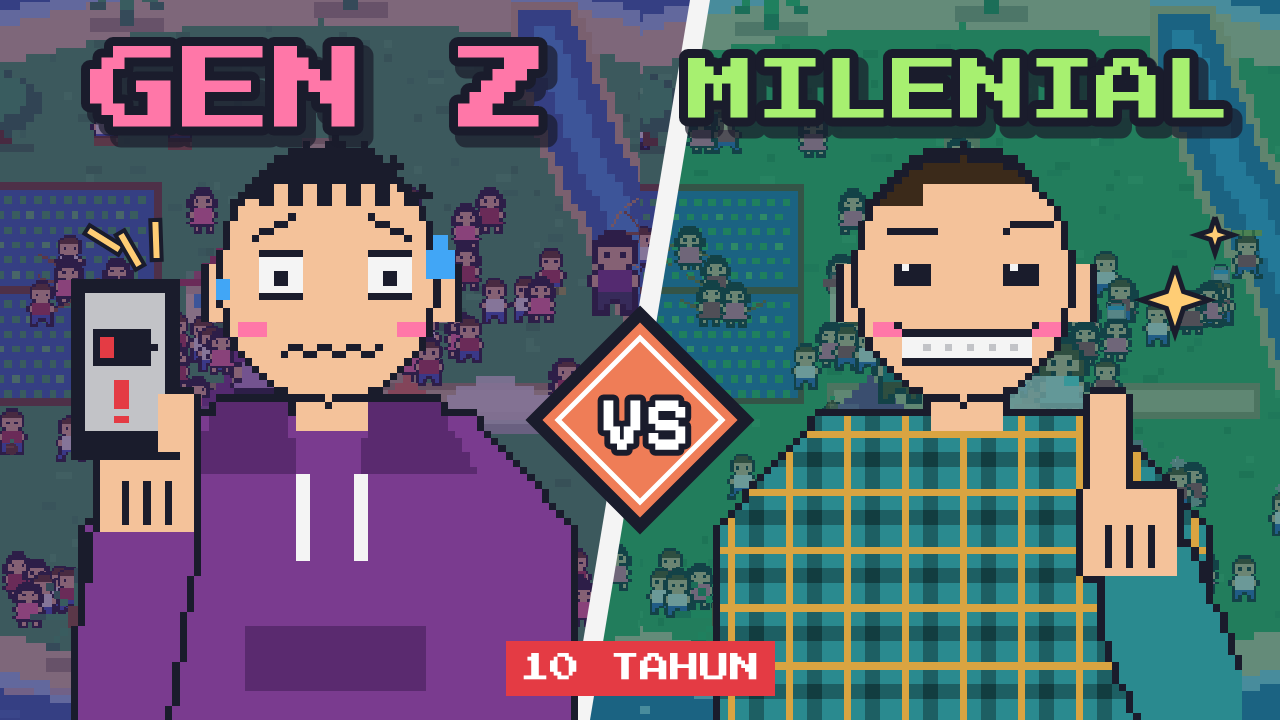
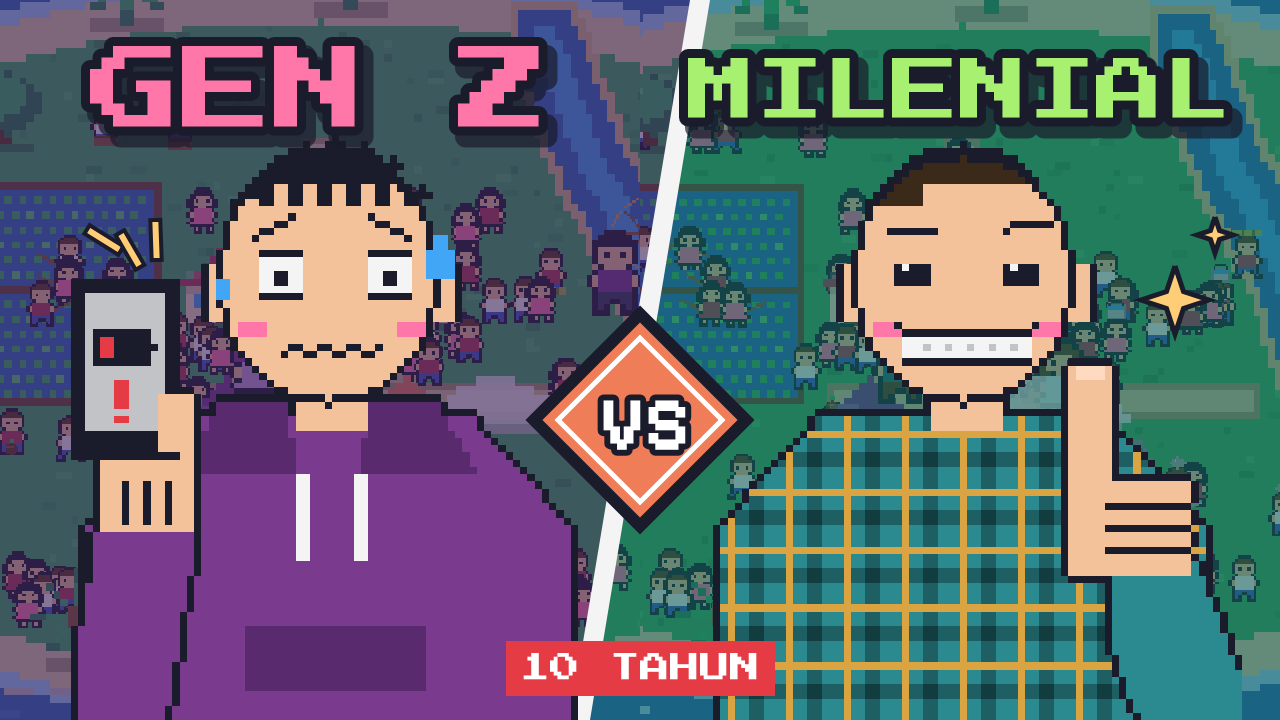
Thumbnail ilustrasi Ojol Libur (Bang Udin, Pak Joko) + jempol lebih jelas; varian B Gen Z tanpa gestur telunjuk
Claude-Session: https://claude.ai/code/session_01QsGhaVPRj9PThaJ4V9QZfc

Changed region(s): [[0.8125, 0.4889, 0.9375, 0.9167], [0.9375, 0.825, 0.9688, 0.8556], [0.875, 0.9472, 0.9062, 0.9778]]

diff --git a/tools/thumbnail-ojol-libur-ilustrasi.html b/tools/thumbnail-ojol-libur-ilustrasi.html
@@ -1,0 +1,74 @@
+<!DOCTYPE html>
+<html lang="id">
+<head>
+  <meta charset="UTF-8" />
+  <title>Thumbnail ilustrasi · Ojol Libur Sebulan</title>
+  <link href="https://fonts.googleapis.com/css2?family=Pixelify+Sans:wght@700&family=Press+Start+2P&display=swap" rel="stylesheet" />
+  <style>html, body { margin: 0; background: #111; } canvas { display: block; }</style>
+</head>
+<body>
+  <!--
+    Thumbnail gaya "ilustrasi": karakter setengah badan bergestur (makeBust di src/sprites-faces.js),
+    latar = tangkapan peta dari video sendiri (tools/thumb-bg/<topik>.png), judul besar bergaris tepi,
+    pembagi miring, VS belah ketupat oranye (identitas kita).
+      #a -> OJOL ON (Bang Udin senang) vs OJOL OFF (Bang Udin menangis, HP OFF, Rp0)
+      #b -> twist: OJOL OFF = Pak Joko ojek pangkalan menyeringai, PANGKALAN UNTUNG?!
+  -->
+  <div id="stage"></div>
+  <script src="../lib/phaser.min.js"></script>
+  <script src="../src/sprites.js"></script>
+  <script src="../src/sprites-faces.js"></script>
+  <script>
+    const VAR = location.hash.slice(1) || 'a';
+    const FONT = '"Pixelify Sans", monospace', NUMFONT = '"Press Start 2P", monospace';
+    const PINK = '#ff77a8', LIME = '#a7f070', GOLD = '#ffcd75', INK = '#1a1c2c';
+
+    class Thumb extends Phaser.Scene {
+      constructor() { super('thumb'); }
+      preload() { this.load.image('bg', 'thumb-bg/ojol-libur.png'); }
+      // judul besar: huruf tebal, garis tepi gelap + bayangan
+      title(text, x, y, color, size = 92) {
+        const st = { fontFamily: NUMFONT, fontSize: `${size}px`, color: INK };
+        this.add.text(x + 8, y + 10, text, st).setOrigin(0.5).setStroke(INK, 22).setAlpha(0.7);
+        this.add.text(x, y, text, { ...st, color }).setOrigin(0.5).setStroke(INK, 18);
+      }
+      tag(text, x, y, angle, bg = '#e43b44', size = 26) {
+        this.add.text(x, y, text, { fontFamily: NUMFONT, fontSize: `${size}px`, color: '#ffffff', backgroundColor: bg, padding: { x: 14, y: 12 } }).setOrigin(0.5).setAngle(angle);
+      }
+      spark(x, y, angle, color = GOLD) {   // garis "kaget/semangat" di samping kepala
+        for (let i = -1; i <= 1; i++) this.add.rectangle(x + i * 26, y - Math.abs(i) * 10, 10, 40, Phaser.Display.Color.HexStringToColor(color).color).setAngle(angle + i * 28).setStrokeStyle(4, 0x1a1c2c);
+      }
+      create() {
+        buildTextures(this); buildFaceTextures(this); buildBustTextures(this);
+        // latar peta + rona tiap sisi
+        const bg = this.add.image(640, 360, 'bg').setDisplaySize(1280, 720);
+        const mask = (pts, color, a) => { const g = this.add.graphics(); g.fillStyle(color, a); g.fillPoints(pts.map(([x, y]) => new Phaser.Geom.Point(x, y)), true); return g; };
+        mask([[0, 0], [700, 0], [580, 720], [0, 720]], 0x3b1f5c, 0.6);        // kiri ungu = Pulau A (Gen Z), sesuai video
+        mask([[700, 0], [1280, 0], [1280, 720], [580, 720]], 0x0f5c5a, 0.6);   // kanan teal = Pulau B (milenial)
+        const d = this.add.graphics(); d.fillStyle(0xf4f4f4, 1); d.fillPoints([[690, 0], [710, 0], [590, 720], [570, 720]].map(([x, y]) => new Phaser.Geom.Point(x, y)), true);
+        // karakter
+        this.add.image(330, 724, 'bust_udin_happy').setOrigin(0.5, 1).setScale(7.2);
+        this.add.image(965, 724, VAR === 'a' ? 'bust_udin_cry' : 'bust_joko_grin').setOrigin(0.5, 1).setScale(7.2);
+        const star = (x, y, r) => { const g = this.add.graphics(); g.fillStyle(0xffcd75, 1).lineStyle(5, 0x1a1c2c, 1);
+          const pts = [[0, -r], [r * 0.25, -r * 0.25], [r, 0], [r * 0.25, r * 0.25], [0, r], [-r * 0.25, r * 0.25], [-r, 0], [-r * 0.25, -r * 0.25]].map(([a, b]) => new Phaser.Geom.Point(x + a, y + b));
+          g.fillPoints(pts, true); g.strokePoints(pts, true); };
+        star(545, 300, 34); star(585, 235, 18);          // Bang Udin senang (kota A)
+        if (VAR === 'b') { star(1175, 300, 34); star(1215, 235, 18); } else this.spark(1150, 250, 30, '#41a6f6');
+        // judul
+        this.title('OJOL ON', 310, 92, LIME, 62);
+        this.title('OJOL OFF', 975, 92, PINK, 62);
+        if (VAR === 'b') this.tag('PANGKALAN UNTUNG?!', 990, 672, -4, '#e43b44', 26);
+        else { this.tag('Rp0', 1160, 520, 8, '#e43b44', 40); this.tag('SEBULAN', 640, 668, 0, '#1a1c2c', 30); }
+        // VS belah ketupat oranye (identitas)
+        this.add.rectangle(640, 420, 150, 150, 0xef7d57).setAngle(45).setStrokeStyle(12, 0x1a1c2c);
+        this.add.rectangle(640, 420, 116, 116).setAngle(45).setStrokeStyle(5, 0xffffff);
+        this.add.text(644, 424, 'VS', { fontFamily: FONT, fontSize: '76px', color: '#ffffff' }).setOrigin(0.5).setStroke(INK, 12);
+      }
+    }
+    Promise.all([document.fonts.load('700 40px "Pixelify Sans"'), document.fonts.load('40px "Press Start 2P"')]).then(() => {
+      window.game = new Phaser.Game({ type: Phaser.CANVAS, parent: 'stage', width: 1280, height: 720, pixelArt: true, backgroundColor: '#000', scene: [Thumb], render: { preserveDrawingBuffer: true } });
+      setTimeout(() => { window.READY = true; }, 900);
+    });
+  </script>
+</body>
+</html>

diff --git a/src/sprites-faces.js b/src/sprites-faces.js
@@ -176,6 +176,11 @@ function makeBust(o) {
     rect(cx - 5, 51, cx - 4, 62, 'W'); rect(cx + 3, 51, cx + 4, 62, 'W');
     rect(cx - 12, 72, cx + 12, 80, 'Q');      // kantong depan
   }
+  if (o.pattern === 'jacket') {
+    for (let y = 43; y < 50; y++) for (let x = 0; x < W; x++) { const d = Math.abs(x + 0.5 - cx); if (d <= 13 - (y - 43) && d >= 5) px(x, y, 'Q'); }  // kerah
+    rect(cx - 1, 50, cx, H - 1, 'Q'); for (let y = 52; y < H; y += 3) px(cx - 1, y, 'w');                                         // ritsleting
+    rect(cx - 26, 64, cx - 20, 66, 'W'); rect(cx + 20, 64, cx + 26, 66, 'W');                                                    // strip reflektor
+  }
   rect(cx - 5, 39, cx + 4, 44, 'S');           // leher
   outline(g, c => c !== 'K' && c !== '.');
   // kepala dari potret besar
@@ -193,20 +198,28 @@ function makeBust(o) {
   if (o.gesture === 'phone') {
     arm(8, H - 3, 12, 58); fist(12, 52);
     lr(2, 24, 16, 48, 'K'); lr(4, 26, 14, 44, 'w');            // HP, layar mati abu
-    lr(5, 31, 12, 35, 'K'); lr(6, 32, 7, 34, 'e'); lp(13, 33, 'K'); lr(8, 38, 9, 41, 'e'); lp(8, 43, 'e'); lp(9, 43, 'e');
+    if (o.screen === 'off') { for (let i = 0; i < 8; i++) { lr(5 + i, 30 + i * 1.4, 6 + i, 31 + i * 1.4, 'e'); lr(12 - i, 30 + i * 1.4, 13 - i, 31 + i * 1.4, 'e'); } }
+    else { lr(5, 31, 12, 35, 'K'); lr(6, 32, 7, 34, 'e'); lp(13, 33, 'K'); lr(8, 38, 9, 41, 'e'); lp(8, 43, 'e'); lp(9, 43, 'e'); }
     lr(14, 40, 18, 47, 'S');                                   // jempol menjepit HP
   }
-  if (o.gesture === 'thumb') { arm(W - 7, H - 3, 62, 66); fist(60, 58); lr(55, 40, 59, 52, 'S'); }
+  if (o.gesture === 'thumb') {   // jempol ke atas: kepalan miring dengan lipatan jari mendatar, jempol di sisi dalam
+    arm(W - 7, H - 3, 63, 68);
+    lr(52, 52, 68, 64, 'S'); for (const y of [55, 58, 61]) lr(57, y, 68, y, 'k');   // kepalan + lipatan jari
+    lr(52, 36, 57, 52, 'S'); lr(53, 36, 56, 37, 'n');                               // jempol + kuku
+  }
   if (o.gesture === 'point') { arm(W - 7, H - 3, 66, 50); fist(65, 44); lr(62, 22, 65, 38, 'S'); }
   outline(L, c => c !== 'K' && c !== 'k' && c !== '.');
   for (let y = 0; y < H; y++) for (let x = 0; x < W; x++) { const c = L[y][x]; if (c !== '.') g[y][x] = c === 'k' ? 'K' : c; }
-  return { rows: g.map(r => r.join('')), colors: { H: o.hair, R: o.shirt, Q: o.shirt2 || o.shirt, q: o.shirt3 || '#1a1c2c', y: o.stripe || o.shirt, e: '#e43b44', x: '#b13e53' } };
+  return { rows: g.map(r => r.join('')), colors: { n: '#ffd9c0', H: o.hair, R: o.shirt, Q: o.shirt2 || o.shirt, q: o.shirt3 || '#1a1c2c', y: o.stripe || o.shirt, e: '#e43b44', x: '#b13e53' } };
 }
 
 const BUSTS = {
   rafi_panic: makeBust({ hair: '#1a1c2c', shirt: '#7a3b8f', shirt2: '#5a2a6f', pattern: 'hoodie', style: 'spiky', face: 'panic', gesture: 'phone' }),   // Gen Z, HP mati
   bayu_grin:  makeBust({ hair: '#3b2a1a', shirt: '#2a8a8f', shirt2: '#1d5f63', shirt3: '#123d40', stripe: '#d9a441', pattern: 'plaid', style: 'neat', face: 'grin', gesture: 'thumb' }),
-  bayu_point: makeBust({ hair: '#3b2a1a', shirt: '#2a8a8f', shirt2: '#1d5f63', shirt3: '#123d40', stripe: '#d9a441', pattern: 'plaid', style: 'neat', face: 'grin', gesture: 'point' }),
+  // Ojol Libur: Bang Udin (jaket hijau polos tanpa logo) & Pak Joko (ojek pangkalan)
+  udin_happy: makeBust({ hair: '#1a1c2c', shirt: '#38b764', shirt2: '#257149', pattern: 'jacket', style: 'neat', face: 'happy', gesture: 'thumb' }),
+  udin_cry:   makeBust({ hair: '#1a1c2c', shirt: '#38b764', shirt2: '#257149', pattern: 'jacket', style: 'neat', face: 'cry', gesture: 'phone', screen: 'off' }),
+  joko_grin:  makeBust({ hair: '#5d3a1a', shirt: '#ef7d57', shirt2: '#b13e53', shirt3: '#7a2a2a', stripe: '#ffcd75', pattern: 'plaid', style: 'neat', face: 'grin', gesture: 'thumb' }),
 };
 function buildBustTextures(scene) {
   for (const [k, f] of Object.entries(BUSTS)) pxTexture(scene, `bust_${k}`, f.rows, { ...PALETTE, ...f.colors });

diff --git a/tools/thumbnail-genz-milenial-ilustrasi.html b/tools/thumbnail-genz-milenial-ilustrasi.html
@@ -11,7 +11,7 @@
     Thumbnail gaya "ilustrasi": karakter setengah badan bergestur (makeBust di src/sprites-faces.js),
     latar = tangkapan peta dari video sendiri (tools/thumb-bg/<topik>.png), judul besar bergaris tepi,
     pembagi miring, VS belah ketupat oranye (identitas kita).
-      #a -> GEN Z (panik, HP mati) vs MILENIAL (jempol)   #b -> MILENIAL telunjuk ke atas + skor 4 : 5
+      #a -> GEN Z (panik, HP mati) vs MILENIAL (jempol)   #b -> sama dengan #a + twist skor 4 : 5 MENANG TIPIS
   -->
   <div id="stage"></div>
   <script src="../lib/phaser.min.js"></script>
@@ -47,13 +47,13 @@
         const d = this.add.graphics(); d.fillStyle(0xf4f4f4, 1); d.fillPoints([[690, 0], [710, 0], [590, 720], [570, 720]].map(([x, y]) => new Phaser.Geom.Point(x, y)), true);
         // karakter
         this.add.image(330, 724, 'bust_rafi_panic').setOrigin(0.5, 1).setScale(7.2);
-        this.add.image(965, 724, VAR === 'a' ? 'bust_bayu_grin' : 'bust_bayu_point').setOrigin(0.5, 1).setScale(7.2);
+        this.add.image(965, 724, 'bust_bayu_grin').setOrigin(0.5, 1).setScale(7.2);
         this.spark(130, 250, -30, GOLD);
         // kilau percaya diri di samping senyum Bayu
         const star = (x, y, r) => { const g = this.add.graphics(); g.fillStyle(0xffcd75, 1).lineStyle(5, 0x1a1c2c, 1);
           const pts = [[0, -r], [r * 0.25, -r * 0.25], [r, 0], [r * 0.25, r * 0.25], [0, r], [-r * 0.25, r * 0.25], [-r, 0], [-r * 0.25, -r * 0.25]].map(([a, b]) => new Phaser.Geom.Point(x + a, y + b));
           g.fillPoints(pts, true); g.strokePoints(pts, true); };
-        if (VAR === 'a') { star(1175, 300, 34); star(1215, 235, 18); } else { star(1100, 175, 28); star(1140, 135, 15); }
+        star(1175, 300, 34); star(1215, 235, 18);
         // judul
         this.title('GEN Z', 320, 92, PINK);
         this.title('MILENIAL', 960, 92, LIME, 68);

diff --git a/tools/thumb-bg.js b/tools/thumb-bg.js
@@ -1,0 +1,14 @@
+// Latar thumbnail ilustrasi: tangkapan peta video tanpa teks/label.  node tools/thumb-bg.js <hash> tools/thumb-bg/<topik>.png <ms>
+// latar thumbnail: tangkapan peta dari video tanpa teks/label UI
+const { chromium } = require('playwright');
+(async () => {
+  const [hash, out, ms] = process.argv.slice(2);
+  const b = await chromium.launch(); const p = await b.newPage({ viewport: { width: 1600, height: 1000 } });
+  await p.goto('http://localhost:8123/#' + hash); if (await p.isVisible('#btn-start')) await p.click('#btn-start');
+  await p.waitForTimeout(+ms);
+  await p.evaluate(() => { const hide = o => { if (o.type === 'Text' || o.depth >= 100) { o.setVisible(false); o.setAlpha(0); } if (o.list) o.list.forEach(hide); }; game.scene.scenes.forEach(sc => sc.children.list.forEach(hide)); });
+  await p.waitForTimeout(80);
+  await p.evaluate(() => game.loop.sleep());
+  await (await p.$('canvas')).screenshot({ path: out });
+  await b.close();
+})();

diff --git a/DOWNLOADS.md b/DOWNLOADS.md
@@ -24,11 +24,17 @@ Folder semua file: https://github.com/yokoyuwono/animation/tree/ccr-0cfe3368-giu
 - [genz-milenial_short_tahun-9.mp4](https://github.com/yokoyuwono/animation/raw/ccr-0cfe3368-giuo4e/renders/shorts/genz-milenial_short_tahun-9.mp4)
 
 **Thumbnail**
+- [thumbnail_genz-milenial_ilustrasi-a.png](https://github.com/yokoyuwono/animation/raw/ccr-0cfe3368-giuo4e/renders/thumbnail_genz-milenial_ilustrasi-a.png)
+- [thumbnail_genz-milenial_ilustrasi-b.png](https://github.com/yokoyuwono/animation/raw/ccr-0cfe3368-giuo4e/renders/thumbnail_genz-milenial_ilustrasi-b.png)
 - [thumbnail_genz-milenial_varian-a.png](https://github.com/yokoyuwono/animation/raw/ccr-0cfe3368-giuo4e/renders/thumbnail_genz-milenial_varian-a.png)
 - [thumbnail_genz-milenial_varian-b.png](https://github.com/yokoyuwono/animation/raw/ccr-0cfe3368-giuo4e/renders/thumbnail_genz-milenial_varian-b.png)
 
 **Caption & hashtag**
 - [genz-milenial_caption.md](https://github.com/yokoyuwono/animation/raw/ccr-0cfe3368-giuo4e/renders/genz-milenial_caption.md)
+
+## genz-milenial_ilustrasi-a.png
+
+## genz-milenial_ilustrasi-b.png
 
 ## internet-mati
 
@@ -93,11 +99,17 @@ Folder semua file: https://github.com/yokoyuwono/animation/tree/ccr-0cfe3368-giu
 - [ojol-libur_short_bab-8.mp4](https://github.com/yokoyuwono/animation/raw/ccr-0cfe3368-giuo4e/renders/shorts/ojol-libur_short_bab-8.mp4)
 
 **Thumbnail**
+- [thumbnail_ojol-libur_ilustrasi-a.png](https://github.com/yokoyuwono/animation/raw/ccr-0cfe3368-giuo4e/renders/thumbnail_ojol-libur_ilustrasi-a.png)
+- [thumbnail_ojol-libur_ilustrasi-b.png](https://github.com/yokoyuwono/animation/raw/ccr-0cfe3368-giuo4e/renders/thumbnail_ojol-libur_ilustrasi-b.png)
 - [thumbnail_ojol-libur_varian-a.png](https://github.com/yokoyuwono/animation/raw/ccr-0cfe3368-giuo4e/renders/thumbnail_ojol-libur_varian-a.png)
 - [thumbnail_ojol-libur_varian-b.png](https://github.com/yokoyuwono/animation/raw/ccr-0cfe3368-giuo4e/renders/thumbnail_ojol-libur_varian-b.png)
 
 **Caption & hashtag**
 - [ojol-libur_caption.md](https://github.com/yokoyuwono/animation/raw/ccr-0cfe3368-giuo4e/renders/ojol-libur_caption.md)
+
+## ojol-libur_ilustrasi-a.png
+
+## ojol-libur_ilustrasi-b.png
 
 ## paylater
 

diff --git a/CLAUDE.md b/CLAUDE.md
@@ -83,6 +83,10 @@ long form + short dari naskah yang sama. Pemilik berkomunikasi dalam bahasa Indo
   `internet-mati` (Andaikan: lengkap + 8 short + thumbnail + paket; wajah `face_rara_*`/`face_nenek_happy`),
   `tanpa-nasi`, `tanpa-koruptor` (Andaikan; VO + animasi jadi, menunggu review → render/thumbnail/caption),
   `romawi-kuno` (dikerjakan di sesi kedua, cabang `romawi-kuno`). Prompt thumbnail gaya ilustrasi (Nano Banana): `tools/thumbnail-prompts.md`.
+- **Thumbnail gaya ilustrasi (disukai pemilik, varian A):** `tools/thumbnail-<topik>-ilustrasi.html` — karakter setengah badan bergestur
+  (`makeBust` + `BUSTS` di `src/sprites-faces.js`: pola hoodie/plaid/jacket, wajah grin/panic/happy/cry, gestur thumb/phone),
+  latar peta dari video (`node tools/thumb-bg.js <hash> tools/thumb-bg/<topik>.png <ms>`), judul besar Press Start 2P bergaris tepi.
+  JANGAN pakai gestur telunjuk ke atas ('point') — terkesan jari tengah. Hasil: `renders/thumbnail_<topik>_ilustrasi-a|b.png`.
   `genz-milenial` (Andaikan, draf 6: lengkap + 12 short + thumbnail + paket; wajah `face_rafi_*`/`face_bayu_*`).
 - Fitur mesin baru: `only: 'long'|'short'` (dual-VO: jembatan untuk kompilasi, pembuka/CTA khusus short per bab),
   `{ score, corner: true }` (papan skor mini di pojok), `{ quote, sub }` (kartu kutipan untuk screenshot),
